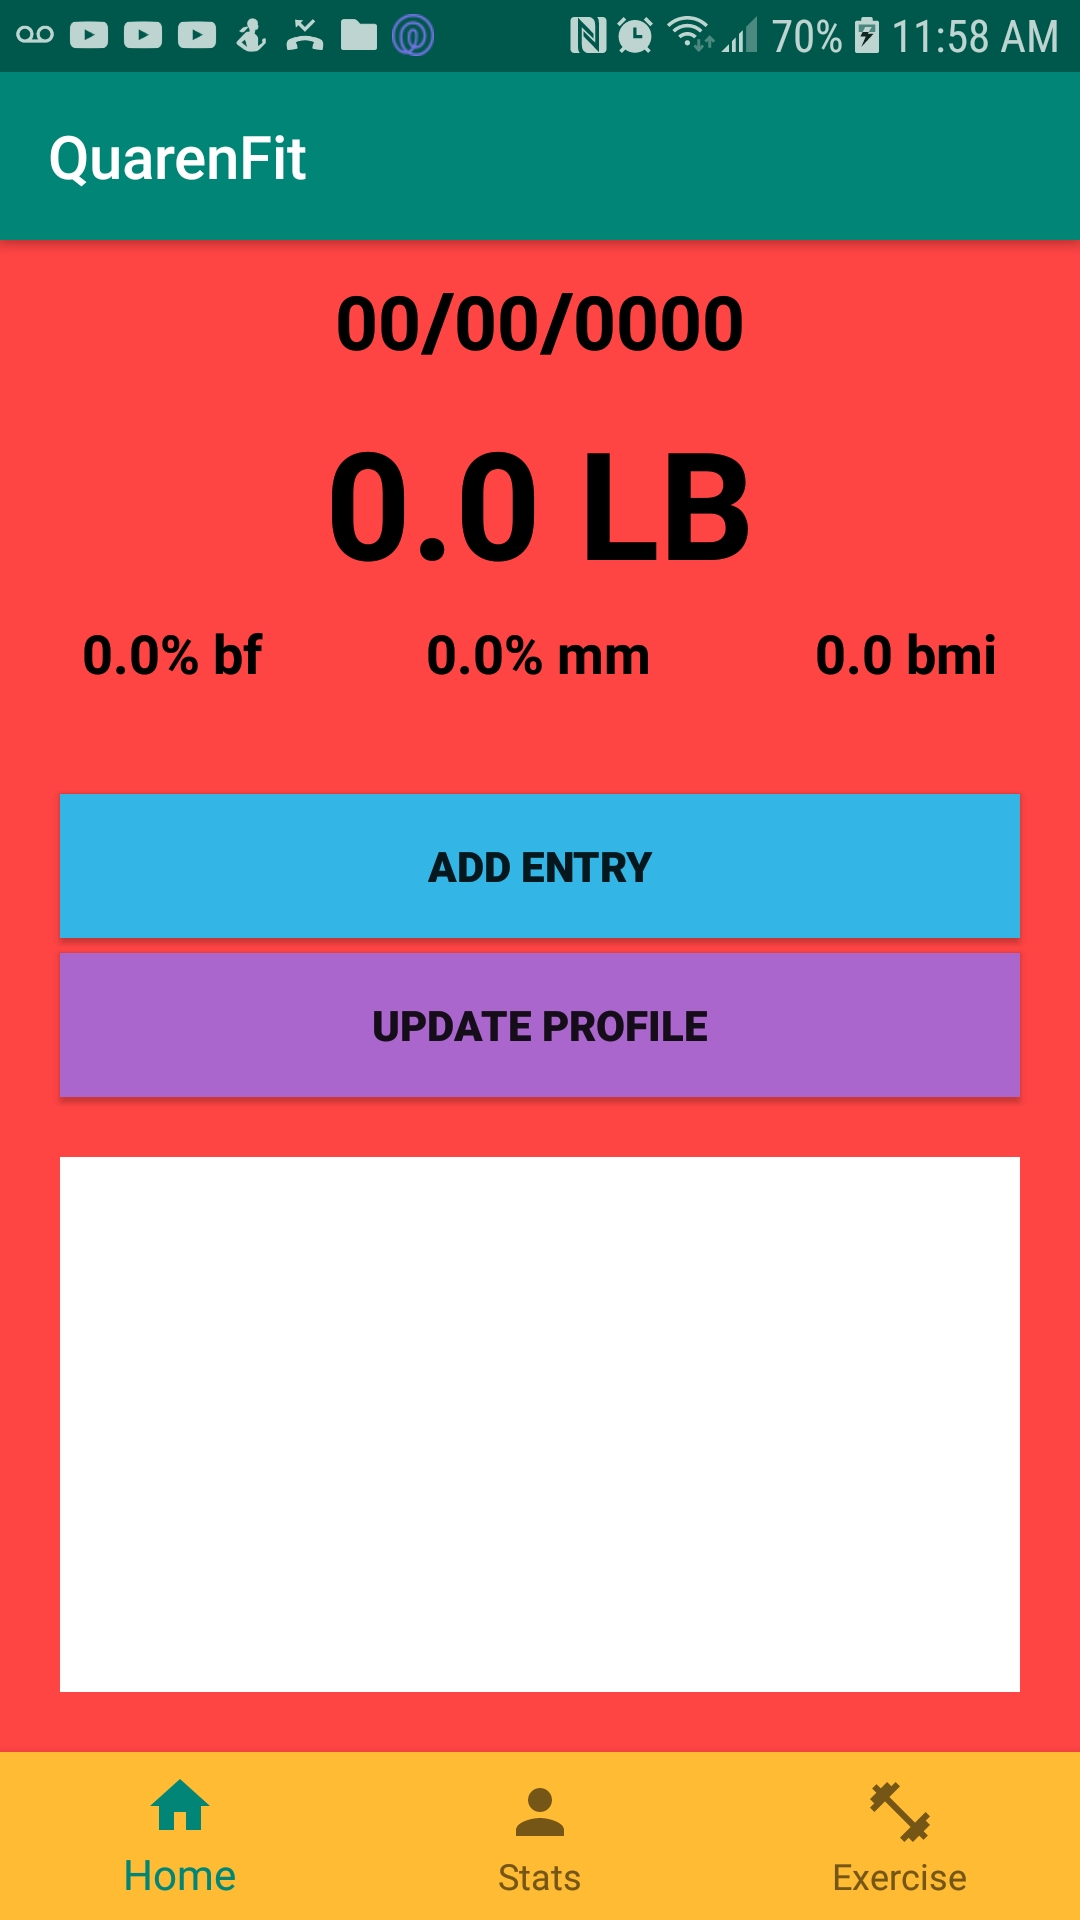
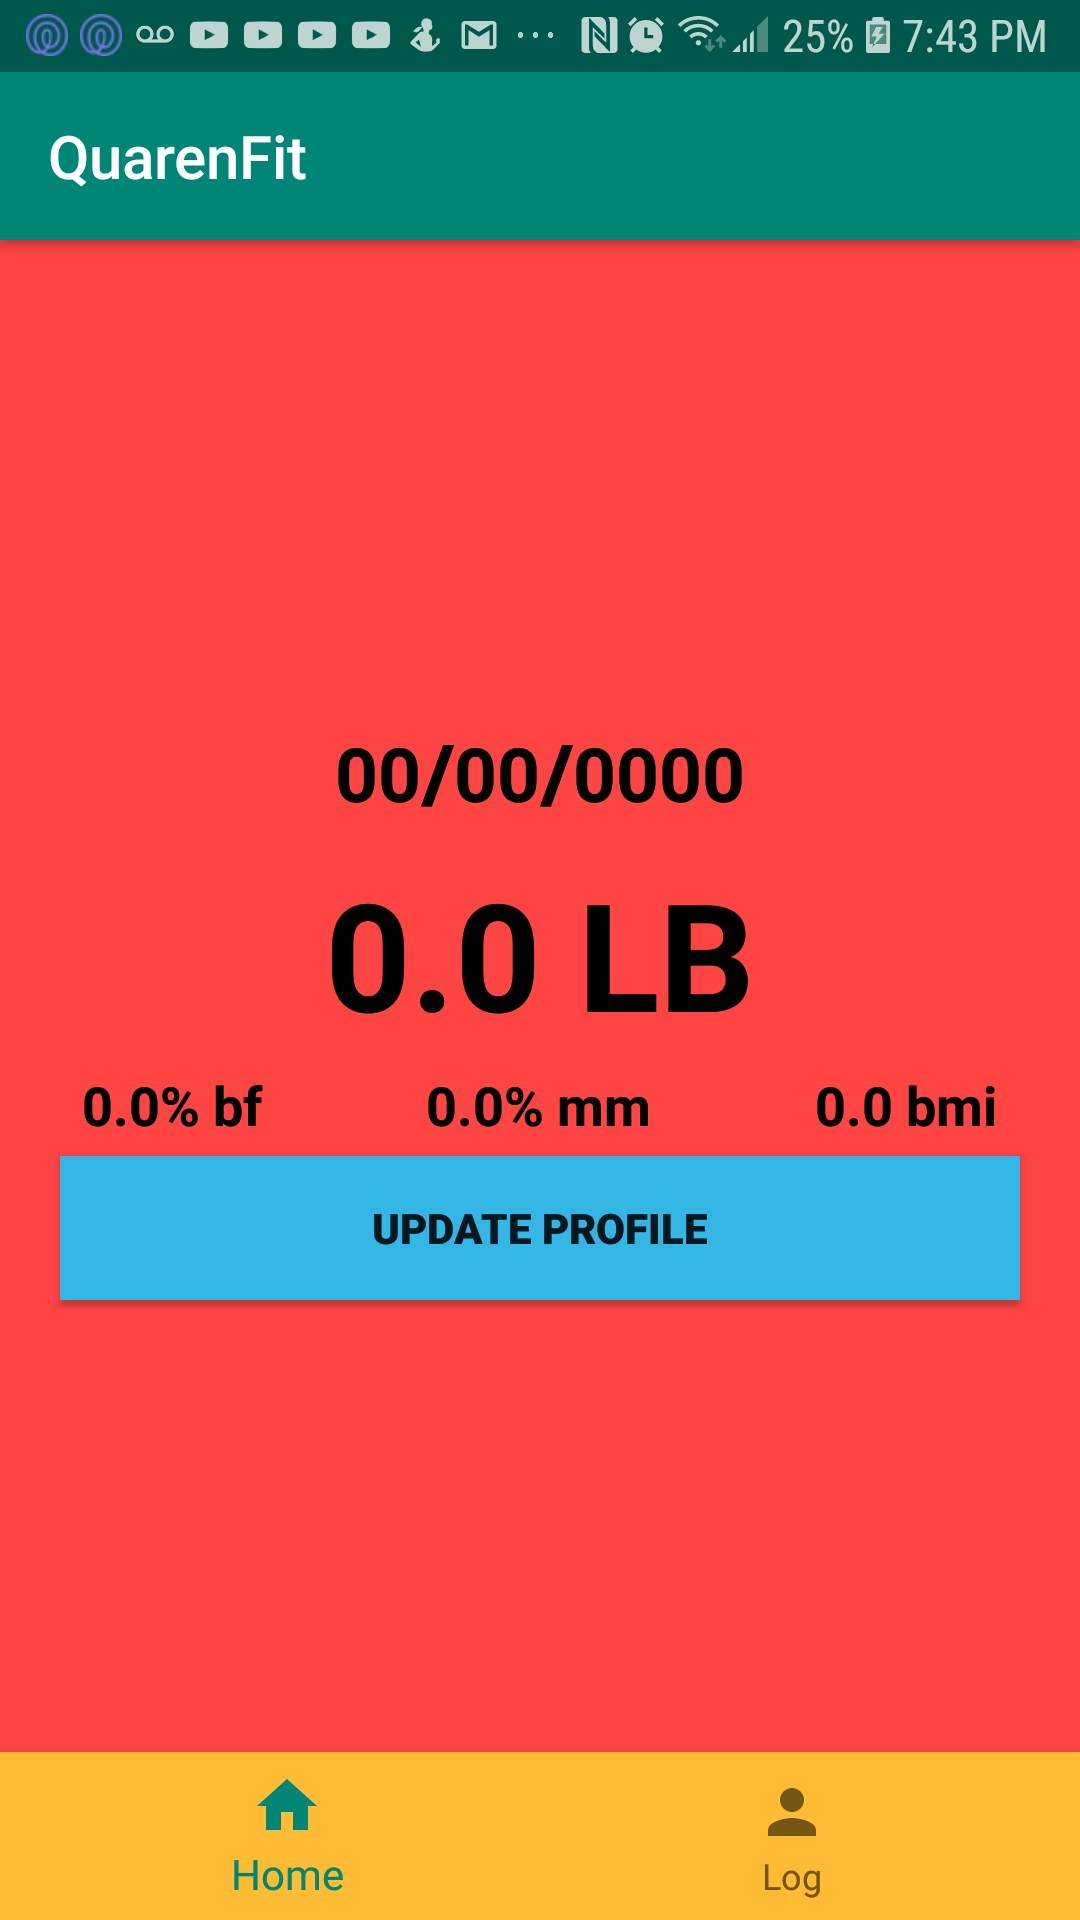
Merged Exercise and Body Fragment into Log Fragment where body stats and exercise are saved as entries | Added Summary section underneath calendar in log_fragment.xml | Changed "App Ideas.txt" to Markdown | Updated sample pictures

diff --git a/app/src/main/java/com/ctech/chris/quarenfit/MainActivity.java b/app/src/main/java/com/ctech/chris/quarenfit/MainActivity.java
@@ -36,12 +36,12 @@ public class MainActivity extends AppCompatActivity {
                     case R.id.nav_home:
                         selectedFrag = new HomeFragment();
                         break;
-                    case R.id.nav_stats:
-                        selectedFrag = new StatsFragment();
+                    case R.id.nav_log:
+                        selectedFrag = new LogFragment();
                         break;
-                    case R.id.nav_exercise:
-                        selectedFrag = new ExerciseFragment();
-                        break;
+//                    case R.id.nav_exercise:
+//                        selectedFrag = new ExerciseFragment();
+//                        break;
                     default:
                         return false;
                 }
@@ -52,13 +52,12 @@ public class MainActivity extends AppCompatActivity {
         });
     }
 
-    // TODO: button to add new body stat or exercise
-    public void onAddEntry(View view) {
-        Toast.makeText(getApplicationContext(),"ADDING ENTRY", Toast.LENGTH_SHORT).show();
-    }
-
     // TODO: button to update profile such as height, age, etc
     public void onUpdateProfile(View view) {
         Toast.makeText(getApplicationContext(), "UPDATING PROFILE", Toast.LENGTH_SHORT).show();
+    }
+
+    public void onClickEntry(View view) {
+        Toast.makeText(getApplicationContext(), "Clicked Entry", Toast.LENGTH_SHORT).show();
     }
 }

diff --git a/app/src/main/java/com/ctech/chris/quarenfit/LogFragment.java b/app/src/main/java/com/ctech/chris/quarenfit/LogFragment.java
@@ -11,11 +11,11 @@ import android.widget.CalendarView;
 import android.widget.Toast;
 
 
-public class StatsFragment extends Fragment {
+public class LogFragment extends Fragment {
     @Nullable
     @Override
     public View onCreateView(@NonNull LayoutInflater inflater, @Nullable ViewGroup container, @Nullable Bundle savedInstanceState) {
-        View layout = inflater.inflate(R.layout.fragment_stats, container, false);
+        View layout = inflater.inflate(R.layout.fragment_log, container, false);
         initCalendar(layout);
         return layout;
     }
@@ -30,5 +30,7 @@ public class StatsFragment extends Fragment {
             }
         });
     }
+
+
 }
 

diff --git a/App Ideas.MD b/App Ideas.MD
@@ -1,0 +1,27 @@
+# **APP OUTLINE**
+
+## LOG FRAGMENT
+* Calendar
+	- weight under day (blank if none)
+* When certain day is clicked, summary of entry is display along with a button to view full entry in a different activity
+* full entry shows display total calories, macros, workouts, and notes section
+* Possible graph view 
+
+## Exercise Fragment (Optional)
+* circuit trainer type of fragment
+
+## HOME FRAGMENT
+### Add Entry (consider having button in each respective fragments)
+* 2 buttons 
+	- new body stat
+	- new exercise
+* popup scrollable layout meny
+* date picker
+* intensity level 
+	- light, moderate, high
+
+### Profile
+* height
+* weight
+* bmi (program calculates)
+* goals
